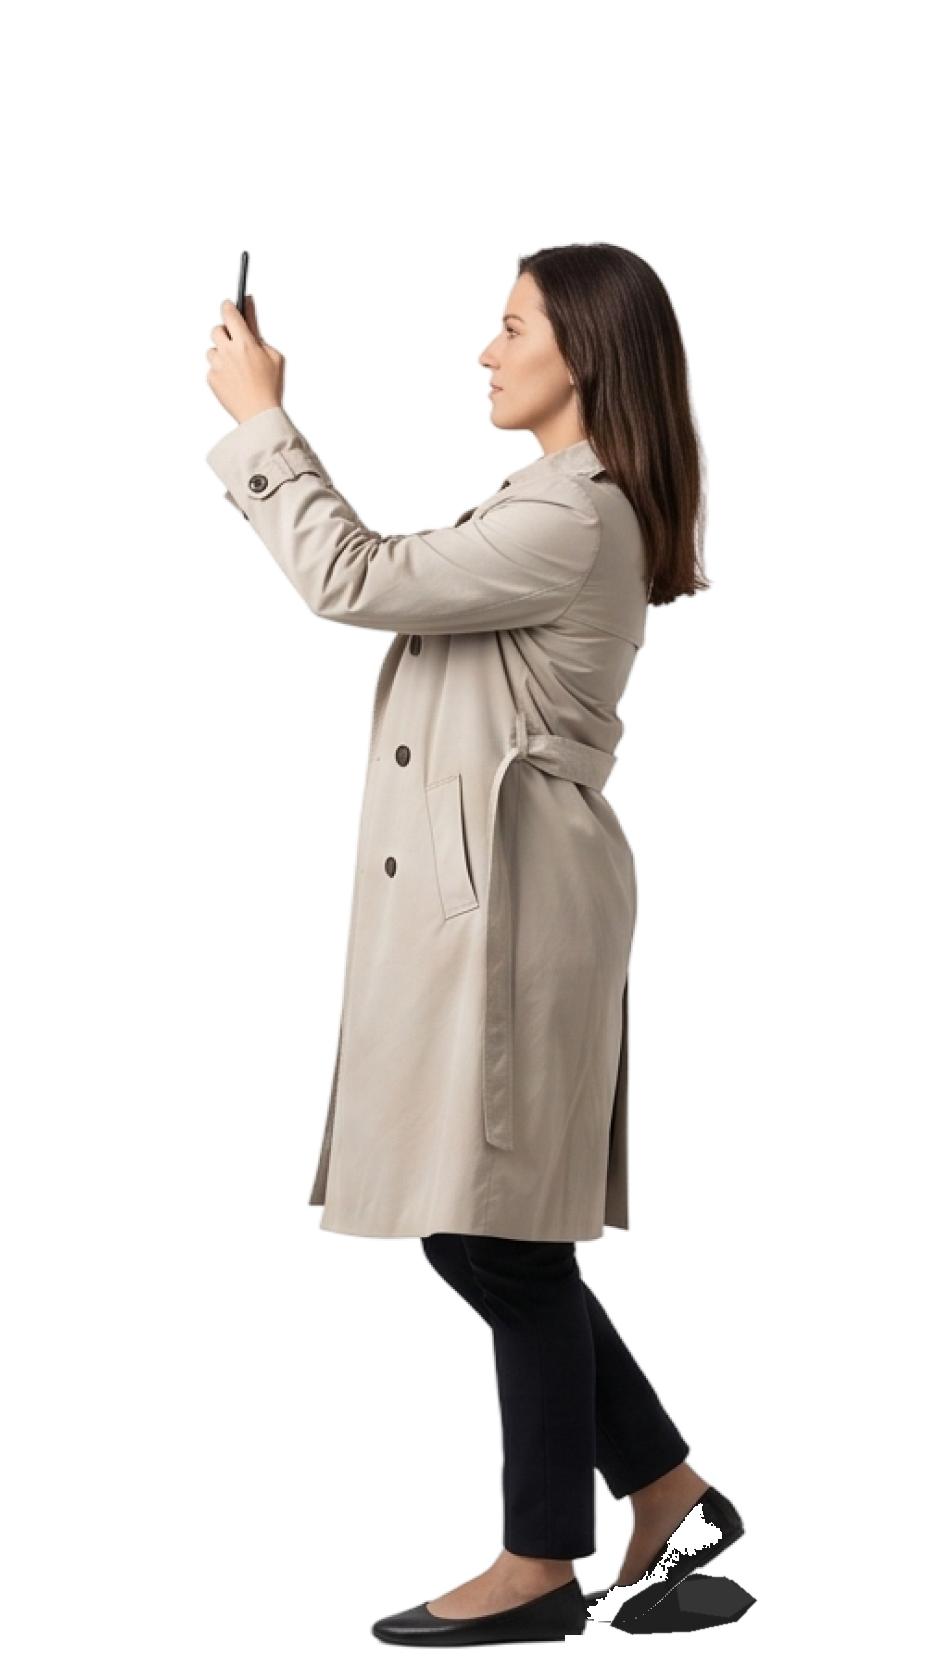
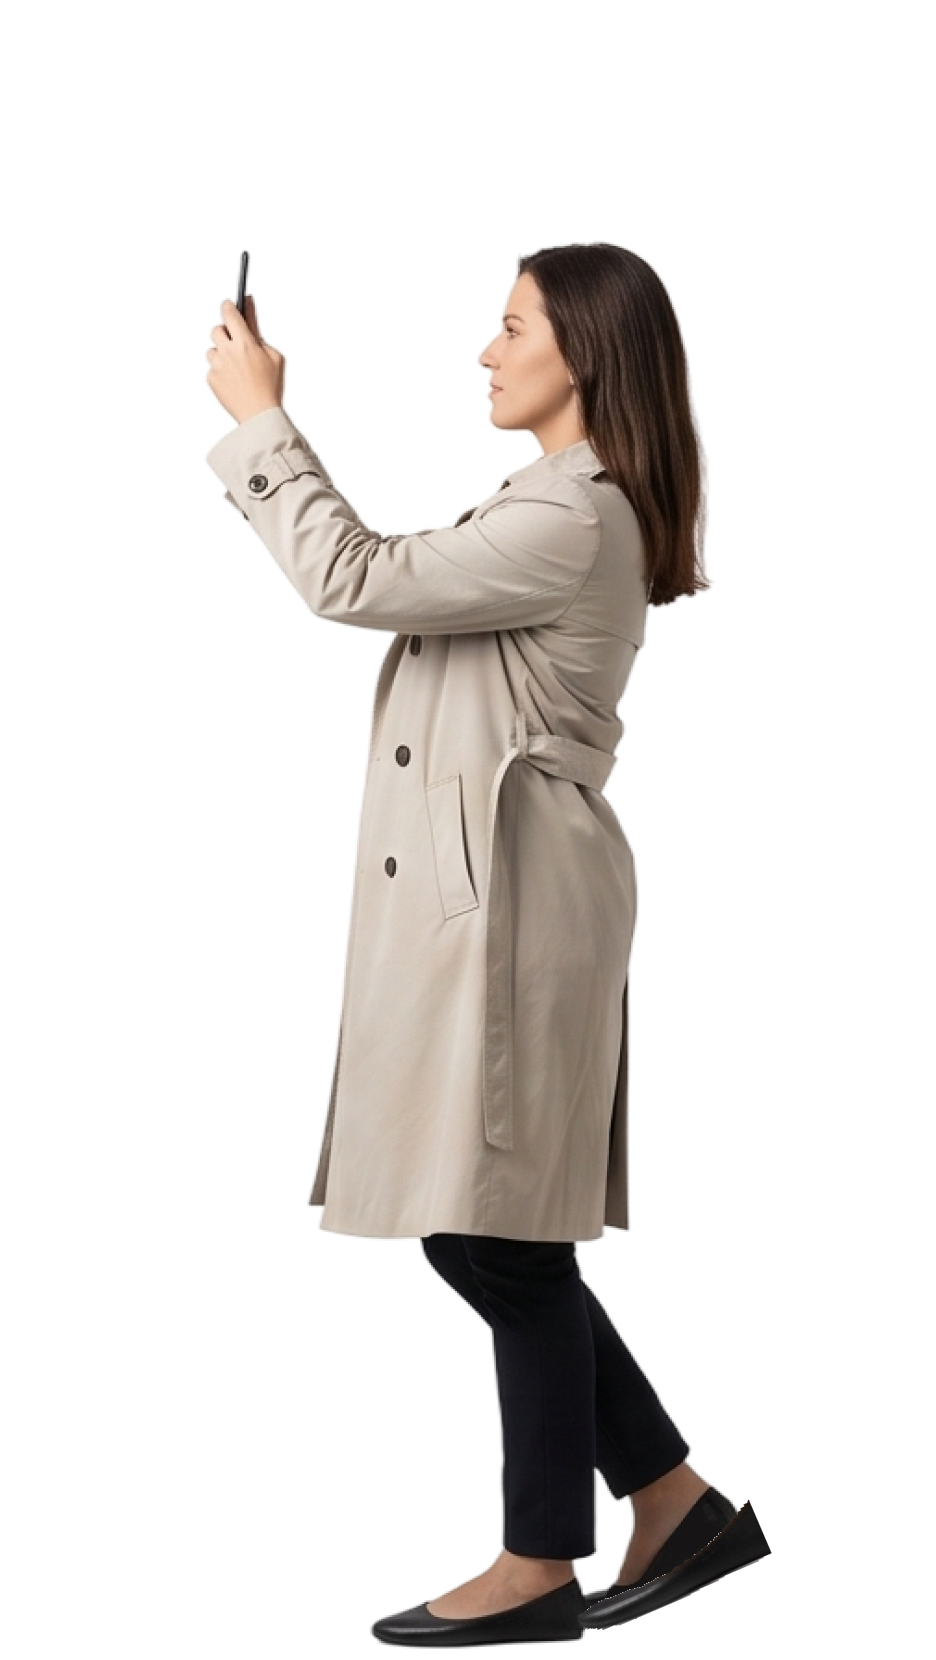
Add ball-trail motion band and polish index/sub-pages
- index: add colored ball-trail canvas band above the UX Logic intro;
  where-meets animation band; responsive phil tagline sizing
- saegyeodeutda: sticky/fade-in hero, walk-scene centering + title scaling,
  fixed walk-person back-heel artifact
- smeureulda: dot-sphere sticky dissolve, morph-objects band, gradient/video tweaks

Changed region(s): [[0.6197, 0.891, 0.8365, 0.9831], [0.5887, 0.9831, 0.6197, 1.0]]

diff --git a/saegyeodeutda.html b/saegyeodeutda.html
@@ -132,7 +132,7 @@
     }
     .sd-pink { color: #ff076a; }
     .sd-sensing-scene {
-      height: 1800vh;
+      height: 800vh;
       position: relative;
       background: #fff;
       padding: 0;
@@ -157,6 +157,18 @@
         opacity .76s cubic-bezier(.22, 1, .36, 1),
         transform .86s cubic-bezier(.22, 1, .36, 1);
       will-change: opacity, transform;
+    }
+    .sd-sensing-primary {
+      transition:
+        opacity 1s ease,
+        transform .86s cubic-bezier(.22, 1, .36, 1);
+    }
+    @keyframes sdSensingIntroDissolve {
+      from { opacity: 0; }
+      to { opacity: 1; }
+    }
+    .sd-sensing-primary {
+      animation: sdSensingIntroDissolve 1s ease both;
     }
     .sd-sensing-detail {
       opacity: 0;
@@ -536,7 +548,7 @@
       transform: translateY(-50%) translateX(32px);
       display: block;
       opacity: 0;
-      font-size: 90pt;
+      font-size: clamp(56px, 6.1vw, 120px);
       line-height: 1.05;
       font-weight: 700;
       letter-spacing: -0.05em;
@@ -568,6 +580,11 @@
       transform: translateY(-50%) translateX(0);
       transition-delay: .16s;
     }
+    /* final: slide the whole person + "Input Logic" group to screen center */
+    .sd-walk-scene.is-pre-final .sd-walk-row {
+      transform: translateX(clamp(200px, 17vw, 340px));
+    }
+    .sd-walk-row { transition: transform .9s cubic-bezier(.22, 1, .36, 1); }
     @media (max-width: 900px) {
       .sd-walk-content { gap: 92px; }
       .sd-walk-row {
@@ -628,6 +645,9 @@
       line-height: 1.5;
       letter-spacing: -0.03em;
       margin-top: clamp(42px, 4.8vw, 86px);
+    }
+    .sd-input-summary > p {
+      margin-top: clamp(112px, 7vw, 150px);
     }
     .sd-card-list {
       display: grid;
@@ -718,6 +738,11 @@
       color: #C4CCD7;
       letter-spacing: -0.02em;
     }
+    .input-hero-scroll {
+      position: relative;
+      height: 150vh;
+      margin-top: clamp(640px, 75vh, 1120px);
+    }
     .sd-summary-hero {
       width: 100%;
       height: 100vh;
@@ -730,6 +755,17 @@
       text-align: center;
       gap: clamp(12px, 1.6vw, 22px);
       overflow: hidden;
+      position: sticky;
+      top: 0;
+    }
+    .sd-summary-hero.sd-summary-dissolve {
+      opacity: 0;
+      transform: none;
+      transition: opacity 1s ease;
+    }
+    .sd-summary-hero.sd-summary-dissolve.vis {
+      opacity: 1;
+      transform: none;
     }
     .sd-summary-hero-label {
       color: rgba(255,255,255,.5);
@@ -767,6 +803,9 @@
       position: relative;
       background: #fff;
     }
+    .sd-flow-fadein { opacity: 0; transform: translateY(28px); transition: opacity .85s ease, transform .85s ease; }
+    .sd-flow-fadein.vis { opacity: 1; transform: none; }
+    .sd-flow-reveal-mark { position: absolute; top: 35vh; left: 0; width: 1px; height: 1px; pointer-events: none; }
     .sd-flow-panel {
       --sd-flow-scale: 1;
       --flow-blur: 0px;
@@ -1529,15 +1568,18 @@
   </div>
 </section>
 
-<section class="sd-summary-hero">
+<div class="input-hero-scroll">
+<section class="sd-summary-hero sd-summary-dissolve" id="inputHeroSec">
   <p class="sd-summary-hero-label fi d1">Input Logic</p>
   <div class="sd-summary-hero-body">
     <h2 class="fi dd2">액티브 레이어를 여는 첫 단추</h2>
     <p class="fi dd3">목적이 시작되는 이 순간은 액티브 레이어라는 거대한 시공간적 바운더리가 열리는 시점입니다. 이제 사용자의 목적은 A2A 연산 형태로 변환되며 본격적인 연산이 시작되죠.</p>
   </div>
 </section>
+</div>
 
-<section class="sd-flow-scroll fi">
+<section class="sd-flow-scroll sd-flow-fadein" id="flowScrollSec">
+<div class="sd-flow-reveal-mark" aria-hidden="true"></div>
 <div class="sd-flow-panel">
   <div class="sd-flow-canvas">
     <div class="sd-flow-side">
@@ -1580,6 +1622,29 @@
     </div>
   </div>
 </section>
+
+<script>
+(() => {
+  const sec = document.getElementById('flowScrollSec');
+  if (!sec) return;
+  const mark = sec.querySelector('.sd-flow-reveal-mark');
+  const io = new IntersectionObserver((es) => {
+    if (es[0].isIntersecting) { sec.classList.add('vis'); io.disconnect(); }
+  }, { rootMargin: '-42% 0px -42% 0px', threshold: 0 });
+  io.observe(mark);
+})();
+</script>
+
+<script>
+(() => {
+  const hero = document.getElementById('inputHeroSec');
+  if (!hero) return;
+  const io = new IntersectionObserver((es) => {
+    if (es[0].isIntersecting) { hero.classList.add('vis'); io.disconnect(); }
+  }, { rootMargin: '0px 0px -90% 0px', threshold: 0 });
+  io.observe(hero);
+})();
+</script>
 
 <section class="sd-section sd-pause-logic-standalone fi">
   <div class="sd-pause-logic-row">

diff --git a/index.html b/index.html
@@ -239,7 +239,7 @@
       color: #ff0b6c; white-space: nowrap;
     }
     .phil-tagline {
-      font-size: clamp(32px,4.8vw,72px);
+      font-size: clamp(26px,3.6vw,52px);
       font-weight: 600;
       line-height: 1.4;
       letter-spacing: -0.04em;
@@ -2572,6 +2572,87 @@
     </div>
   </div>
 </div>
+
+<!-- ═══════════════════════
+  UX LOGIC — BALL TRAIL MOTION
+═══════════════════════ -->
+<section class="bt-band fi" aria-hidden="true">
+  <canvas class="bt-canvas" id="btCanvas"></canvas>
+</section>
+<style>
+  .bt-band { width: 100%; background: #fff; padding: clamp(12px, 3vh, 48px) 0; overflow: hidden; }
+  .bt-canvas { display: block; width: 100%; height: clamp(220px, 32vh, 400px); }
+</style>
+<script>
+(() => {
+  const cv = document.getElementById('btCanvas');
+  if (!cv) return;
+  const ctx = cv.getContext('2d');
+  let W = 0, H = 0, DPR = 1;
+  function resize(){
+    DPR = Math.min(2, window.devicePixelRatio || 1);
+    const r = cv.getBoundingClientRect();
+    W = Math.max(1, r.width); H = Math.max(1, r.height);
+    cv.width = Math.round(W * DPR); cv.height = Math.round(H * DPR);
+    ctx.setTransform(DPR, 0, 0, DPR, 0, 0);
+  }
+  const ro = new ResizeObserver(resize); ro.observe(cv); resize();
+  const reduce = matchMedia('(prefers-reduced-motion: reduce)').matches;
+
+  // downward-opening arc (∩): low ends, peak in the middle
+  function P0(){ return [-0.04 * W, 0.86 * H]; }
+  function P1(){ return [ 0.50 * W, 0.06 * H]; }
+  function P2(){ return [ 1.04 * W, 0.86 * H]; }
+  function bez(s){ const [a0,b0]=P0(),[a1,b1]=P1(),[a2,b2]=P2(),u=1-s;
+    return [u*u*a0+2*u*s*a1+s*s*a2, u*u*b0+2*u*s*b1+s*s*b2]; }
+  function tan(s){ const [a0,b0]=P0(),[a1,b1]=P1(),[a2,b2]=P2(),u=1-s;
+    return Math.atan2(2*u*(b1-b0)+2*s*(b2-b1), 2*u*(a1-a0)+2*s*(a2-a1)); }
+
+  const COLORS=[[255,18,113],[255,218,71],[195,231,121],[112,219,240]];
+  function gcol(u){
+    u=Math.max(0,Math.min(1,u))*(COLORS.length-1);
+    const i=Math.min(COLORS.length-2,Math.floor(u)),f=u-i,a=COLORS[i],b=COLORS[i+1];
+    return [a[0]+(b[0]-a[0])*f,a[1]+(b[1]-a[1])*f,a[2]+(b[2]-a[2])*f];
+  }
+  const rgba=(c,a)=>`rgba(${c[0]|0},${c[1]|0},${c[2]|0},${a})`;
+
+  const TRAIL=9, GAP=0.082, PASS=2.7, CYCLE=3.9, FLIPS=3.4;
+
+  function frame(t){
+    ctx.fillStyle='#ffffff'; ctx.fillRect(0,0,W,H);
+    const headS=((t%CYCLE)/PASS)*1.30;
+    const R=Math.min(W,H)*0.10;
+    for(let k=TRAIL-1;k>=0;k--){
+      const s=headS-k*GAP;
+      if(s<0||s>1.02) continue;
+      const [x,y]=bez(s), ang=tan(s);
+      const flip=Math.abs(Math.cos(s*Math.PI*FLIPS));
+      const ry=R*Math.max(0.10,flip), rx=R;
+      const fade=1-k/TRAIL;
+      const alpha=0.55+0.45*fade;
+      const scale=0.62+0.38*fade;
+      const col=gcol(k/(TRAIL-1));
+      ctx.save();
+      ctx.translate(x,y); ctx.rotate(ang); ctx.scale(scale,scale);
+      ctx.beginPath(); ctx.ellipse(0,0,rx,ry,0,0,Math.PI*2);
+      ctx.fillStyle=rgba(col,alpha); ctx.fill();
+      ctx.restore();
+    }
+  }
+
+  let running=false, raf=0;
+  function loop(now){ if(!running) return; frame(now/1000); raf=requestAnimationFrame(loop); }
+  if(reduce){ frame(1.2); }
+  else {
+    const io=new IntersectionObserver((es)=>{
+      const vis=es[0].isIntersecting;
+      if(vis && !running){ running=true; raf=requestAnimationFrame(loop); }
+      else if(!vis && running){ running=false; cancelAnimationFrame(raf); }
+    }, {threshold:0});
+    io.observe(cv);
+  }
+})();
+</script>
 
 <!-- ═══════════════════════
   18. UX LOGIC INTRO

diff --git a/smeureulda.html b/smeureulda.html
@@ -410,7 +410,7 @@
       display: flex;
       gap: clamp(24px, 2.4vw, 44px);
       align-items: stretch;
-      margin-top: clamp(56px, 6vw, 108px);
+      margin-top: clamp(132px, 11vw, 220px);
     }
     .sec-detail.mapping-photo .principle-card {
       min-height: clamp(210px, 17vw, 300px);
@@ -476,11 +476,21 @@
       white-space: nowrap;
     }
 
+    .ai-sphere-scroll {
+      position: relative;
+      height: 108vh;
+      margin-top: clamp(360px, 62vh, 820px);
+    }
     .sec-ai-figma-summary {
       background: #0E1825;
       width: 100%;
       padding: clamp(56px, 8vw, 116px) var(--edge-padding);
+      position: sticky;
+      top: 0;
+      min-height: 100vh;
     }
+    .sec-ai-figma-summary.sec-dissolve { opacity: 0; transition: opacity 1s ease; }
+    .sec-ai-figma-summary.sec-dissolve.vis { opacity: 1; }
     .ai-sphere { width: 100%; height: clamp(300px, 38vw, 520px); margin-bottom: clamp(36px, 4.5vw, 64px); }
     .ai-sphere canvas { display: block; width: 100%; height: 100%; }
     .sec-ai-figma-summary .ai-figma-label,
@@ -492,7 +502,12 @@
     .ai-figma-p { width: min(839px, 48vw); font-size: clamp(14px,1.8vw,24px); font-weight: 400; line-height: 1.5; letter-spacing: -0.03em; }
 
     /* ── 9. FEATURE CARDS (text-only) ── */
-    .sec-3cards { background: #fff; width: 100%; padding: clamp(56px, 8vw, 116px) var(--edge-padding); }
+    .sec-3cards {
+      background: #fff;
+      width: 100%;
+      margin-top: 0;
+      padding: clamp(28px, 3.6vw, 60px) var(--edge-padding) clamp(56px, 8vw, 116px);
+    }
     .cards-row { display: flex; gap: clamp(16px, 1.8vw, 32px); min-height: 0; }
     .feat-card {
       flex: 1; background: #F4F8FC; border-radius: 32px;
@@ -975,7 +990,8 @@
 </section>
 
 <!-- ══ 8-1. SKEEP AI™ SUMMARY ══ -->
-<section class="sec-ai-figma-summary fi">
+<div class="ai-sphere-scroll">
+<section class="sec-ai-figma-summary sec-dissolve" id="aiSphereSec">
   <div class="ai-sphere"><canvas id="aiSphereCanvas"></canvas></div>
   <p class="ai-figma-label">Skeep AI™</p>
   <div class="ai-figma-row">
@@ -988,6 +1004,7 @@
     </p>
   </div>
 </section>
+</div>
 
 <script>
 /* Skeep AI™ dot-sphere: gather → rotate → zoom into red core */
@@ -1356,6 +1373,15 @@
     entries.forEach(e => { if (e.isIntersecting) e.target.classList.add('vis'); });
   }, { threshold: 0.07 });
   document.querySelectorAll('.fi').forEach(el => io.observe(el));
+
+  // delayed dissolve for the dot-sphere section (reveal when centered)
+  const aiSphereSec = document.getElementById('aiSphereSec');
+  if (aiSphereSec) {
+    const io2 = new IntersectionObserver((es) => {
+      if (es[0].isIntersecting) { aiSphereSec.classList.add('vis'); io2.disconnect(); }
+    }, { rootMargin: '0px 0px -90% 0px', threshold: 0 });
+    io2.observe(aiSphereSec);
+  }
 
   const keeponTitle = document.getElementById('keeponTitle');
   if (keeponTitle) {
